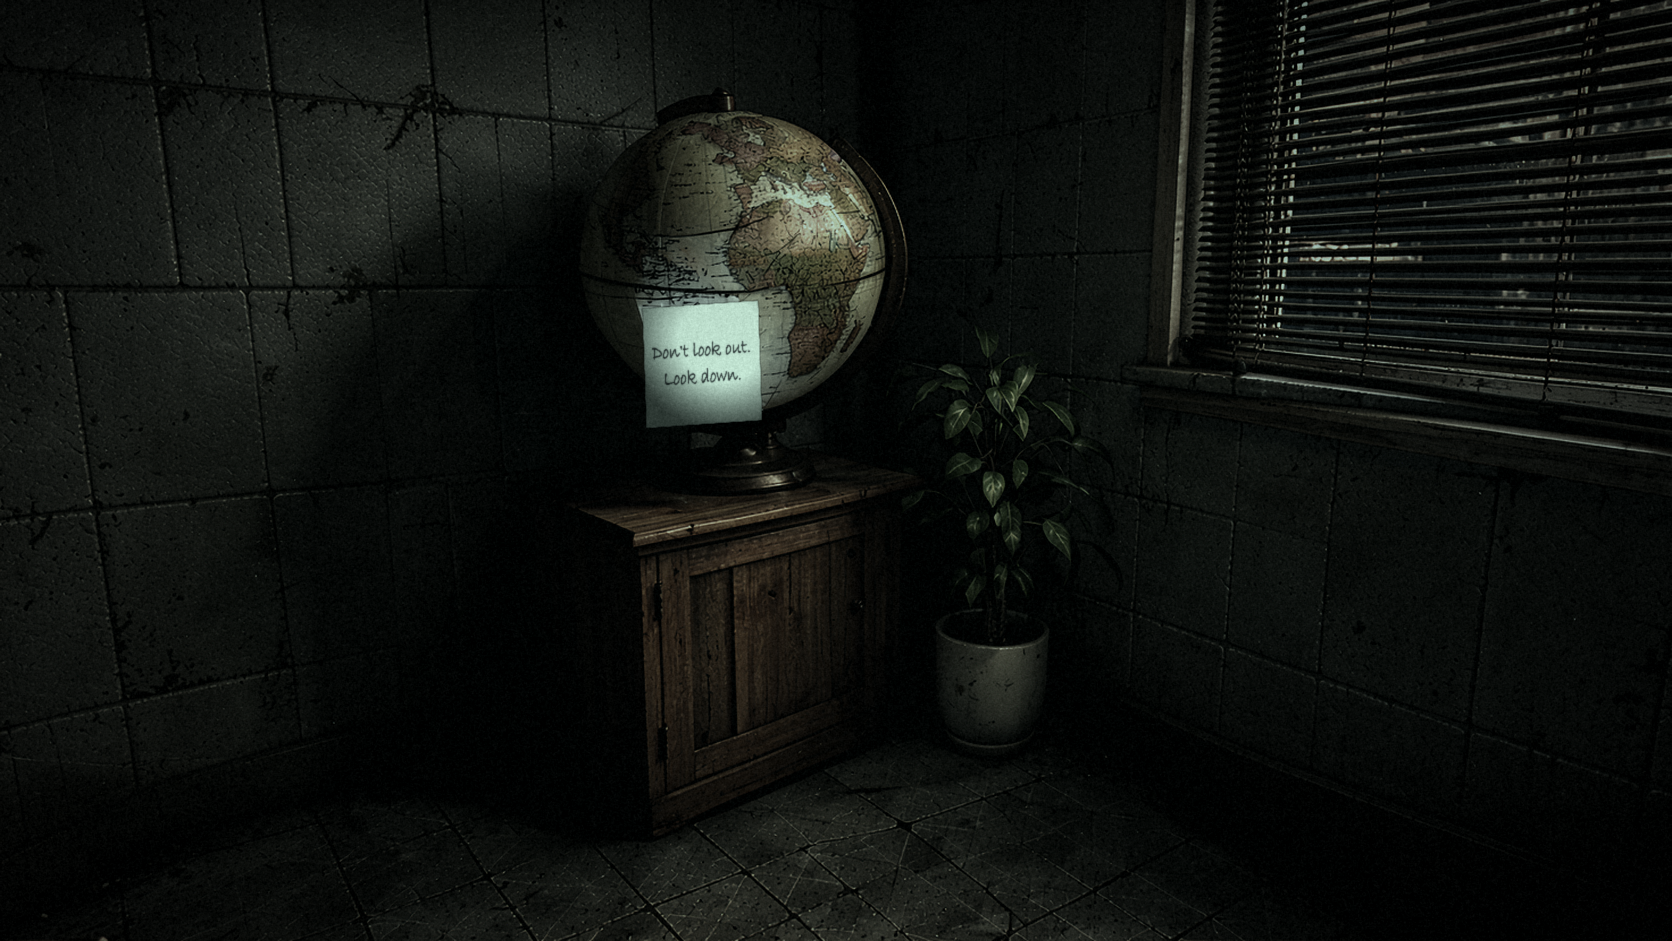
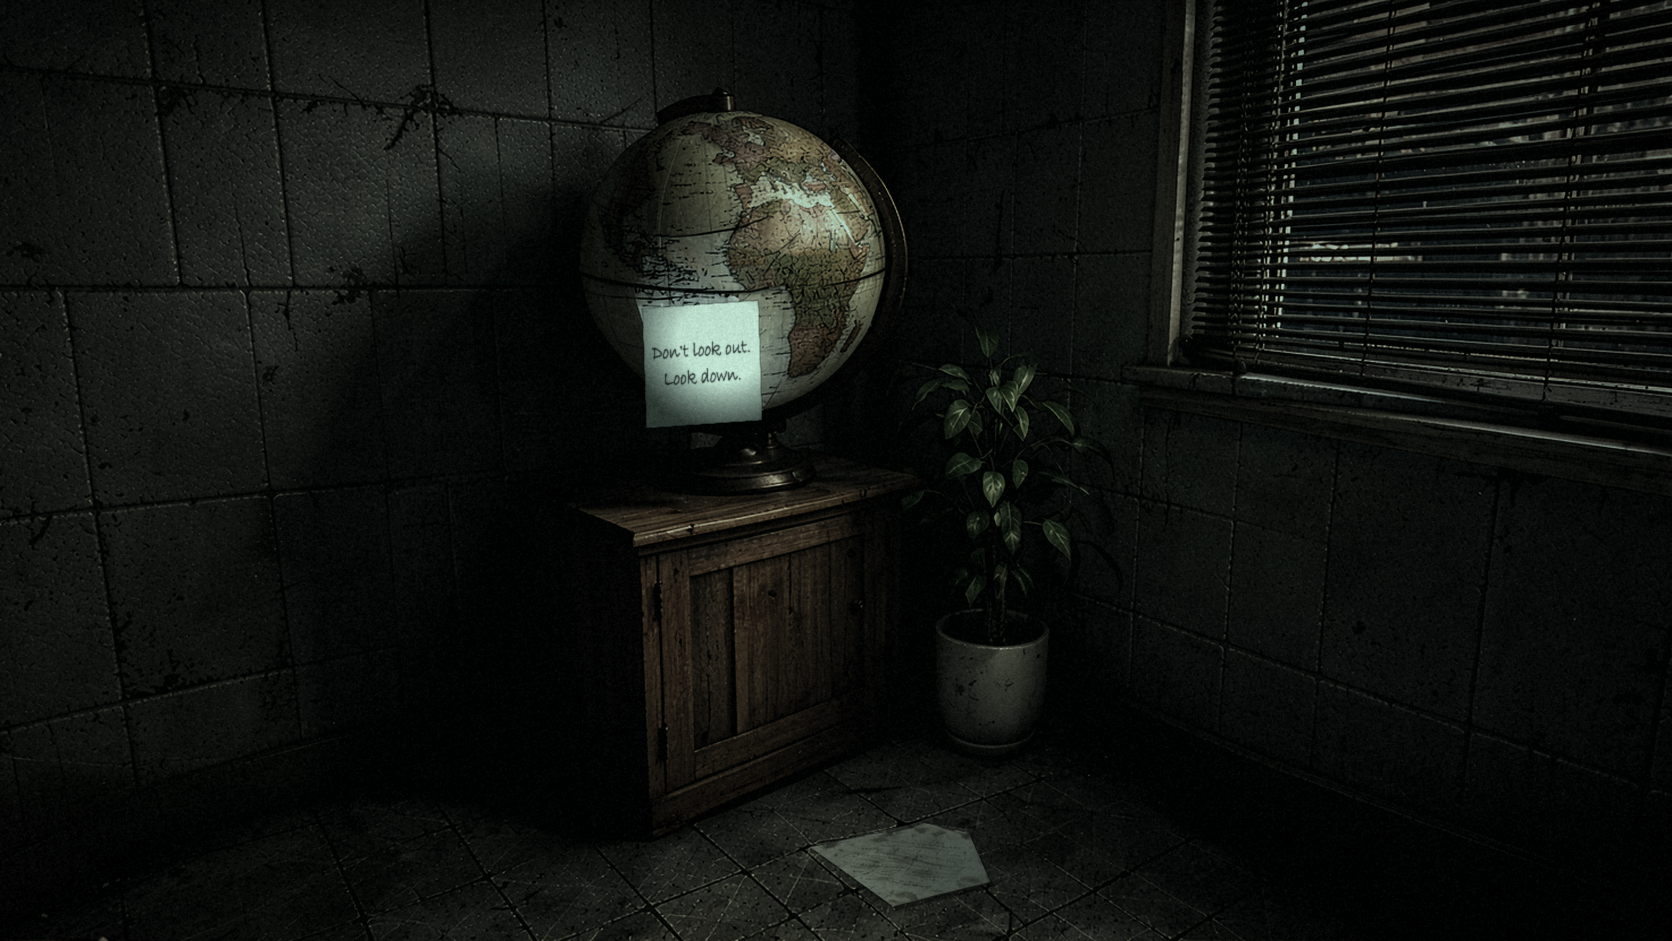
necklace fix

Changed region(s): [[0.4665, 0.8629, 0.5909, 0.9554]]

diff --git a/roomFunc/newRoomFunc.py b/roomFunc/newRoomFunc.py
@@ -61,6 +61,9 @@ def getElements(room):
             images[viewOf(name, pic)] = u.load_image(picture(folder + name + "/" + pic + ".png", folder + name + "/pov_changed.png"), size)
             masks[viewOf(name, pic)] = []
             inputs[name + ".changed"] = [CodeEntry(room, name)]
+    # the people in the room, see PEOPLE in the room's file: pressing one does an action from ACTIONS
+    for name, label, action in room.PEOPLE:
+        masks["room"].append(u.Mask(folder + "masks/" + name + ".png", size, (0, 0), lambda action=ACTIONS[action]: action(room), label))
     buttons = [u.Button(1320, 650, 140, 50, "Back", lambda: back(room))]
     # the buttons a room has besides its elements, they are in the room view only
     extra = [u.Button(x, y, w, h, label, lambda action=ACTIONS[action]: action(room))
@@ -212,5 +215,5 @@ def giveNecklace(room):
     room.goTo("ending")
 
 
-# the actions a room can give to its buttons, by the name used in the BUTTONS of its file
+# the actions a room can give to its people and buttons, by the name used in the PEOPLE or BUTTONS of its file
 ACTIONS = {"giveNecklace": giveNecklace}

diff --git a/data/maskPositions.py b/data/maskPositions.py
@@ -21,6 +21,7 @@ CUT = {
     "assets/classroom_2031/masks/teacher_desk.png": (707, 92, 1672, 941),
     "assets/classroom_2031/masks/window.png": (640, 30, 1672, 941),
     "assets/classroom_2031/chalkboard/mask.png": (0, 62, 1672, 941),
+    "assets/classroom_2031/globe/flyer_mask.png": (810, 822, 1672, 941),
     "assets/classroom_2031/globe/mask.png": (578, 89, 1672, 941),
     "assets/classroom_2031/lockers/locker_2_mask.png": (888, 58, 1672, 941),
     "assets/classroom_2031/lockers/mask.png": (309, 57, 1672, 941),

diff --git a/Rooms/newRooms.py b/Rooms/newRooms.py
@@ -12,6 +12,7 @@ class NewRoom(BaseRoom):
     ELEMENTS = []
     FOUND = {}
     BUTTONS = []
+    PEOPLE = []         # people in the room you can press, see newRoomFunc.getElements
     CLICKABLES = {}     # element id -> things you can press inside its close-up, see newRoomFunc.press
     CODES = {}          # element id -> (code, picture shown when it is right), see newRoomFunc.CodeEntry
 

diff --git a/roomFunc/teachRoomFunc.py b/roomFunc/teachRoomFunc.py
@@ -46,7 +46,7 @@ STONE_HEIGHT = 50
 NECKLACE_MASK = "assets/teacherRoom/tr_necklace_in_chest.png"
 # box around the thin necklace that also counts as a click, on the 1024 x 572 picture
 NECKLACE_AREA = (404, 224, 221, 117)
-NECKLACE_ICON = "assets/teacherRoom/tr_necklace_icon.png"
+NECKLACE_ICON = NECKLACE_MASK
 
 COUNTER_POS = (615, 205)
 

diff --git a/roomFunc/stoRoomFunc.py b/roomFunc/stoRoomFunc.py
@@ -46,7 +46,7 @@ MASK_DIR = "assets/storrageRoom/masks/"
 
 # icons used in the inventory
 STONE_IMAGE = "assets/stones/green.png"
-FUSE_ICON = "assets/vampire/masks/fuse.png"
+FUSE_ICON = "assets/vampire/fuse_item.png"
 
 
 class View:
